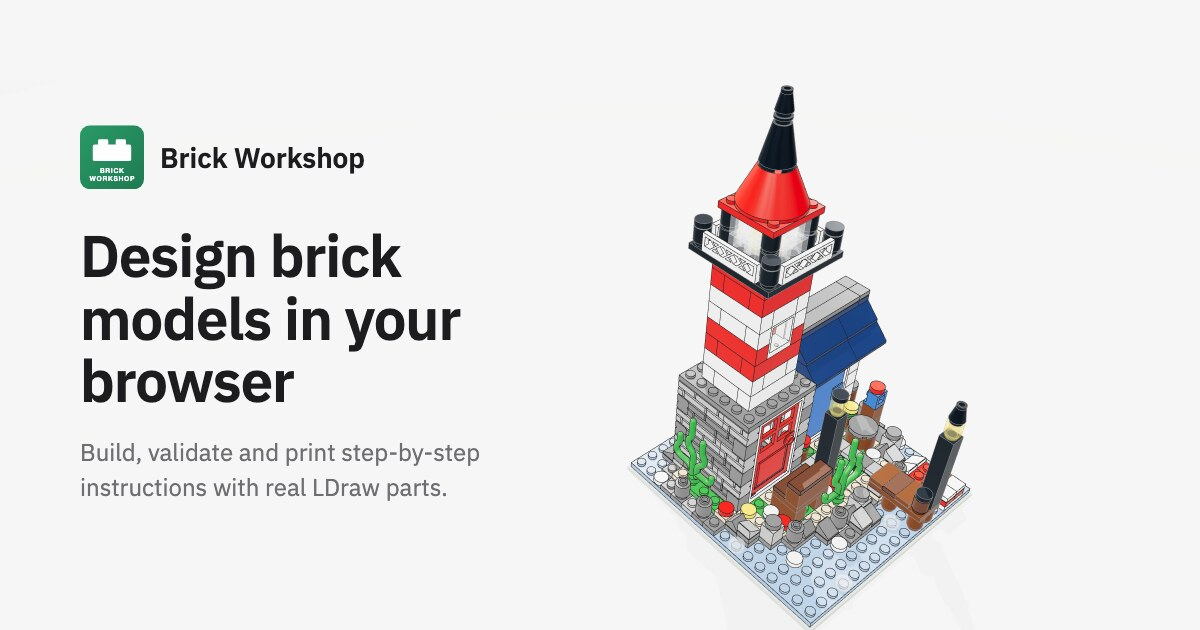
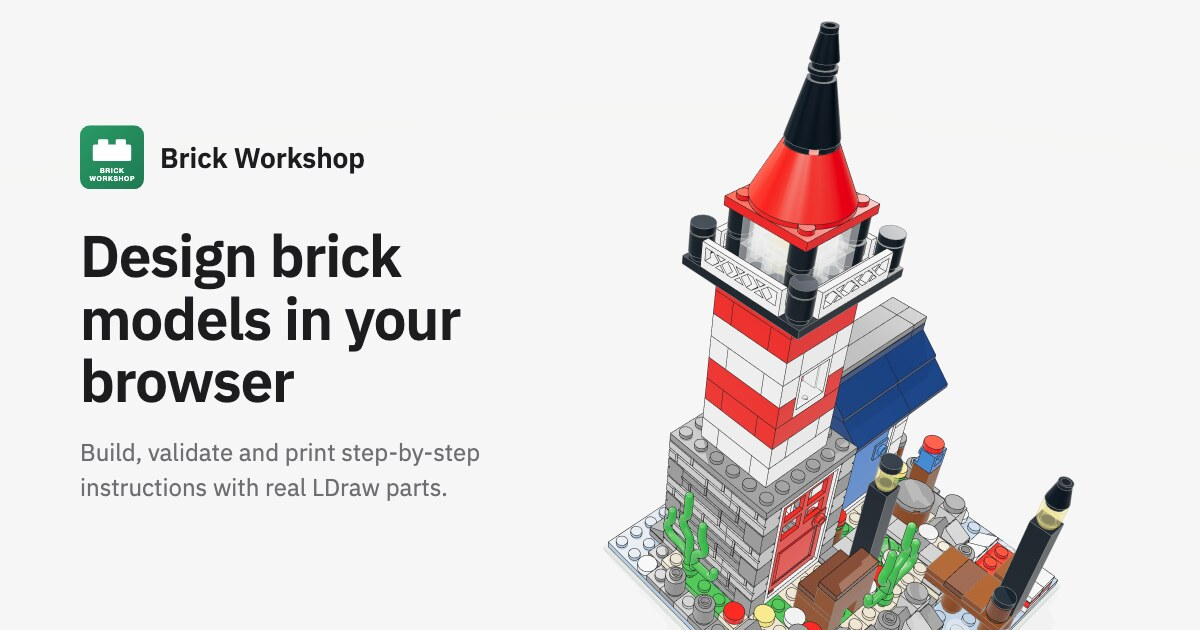
feat: crop the social preview closer on the lighthouse
Zoom the render in so the model fills the right half and runs off the
card's edge as a teaser.

Changed region(s): [[0.4933, 0.0302, 0.8942, 1.0]]

diff --git a/apps/web/index.html b/apps/web/index.html
@@ -22,7 +22,7 @@
     <meta property="og:url" content="https://brick-workshop.larsvanbraam.nl/" />
     <meta
       property="og:image"
-      content="https://brick-workshop.larsvanbraam.nl/og-image.jpg?v=3"
+      content="https://brick-workshop.larsvanbraam.nl/og-image.jpg?v=4"
     />
     <meta property="og:image:width" content="1200" />
     <meta property="og:image:height" content="630" />
@@ -38,7 +38,7 @@
     />
     <meta
       name="twitter:image"
-      content="https://brick-workshop.larsvanbraam.nl/og-image.jpg?v=3"
+      content="https://brick-workshop.larsvanbraam.nl/og-image.jpg?v=4"
     />
     <style>
       #workshop-loading {

diff --git a/apps/web/instructions.html b/apps/web/instructions.html
@@ -22,7 +22,7 @@
     />
     <meta
       property="og:image"
-      content="https://brick-workshop.larsvanbraam.nl/og-image.jpg?v=3"
+      content="https://brick-workshop.larsvanbraam.nl/og-image.jpg?v=4"
     />
     <meta property="og:image:width" content="1200" />
     <meta property="og:image:height" content="630" />
@@ -38,7 +38,7 @@
     />
     <meta
       name="twitter:image"
-      content="https://brick-workshop.larsvanbraam.nl/og-image.jpg?v=3"
+      content="https://brick-workshop.larsvanbraam.nl/og-image.jpg?v=4"
     />
   </head>
   <body>
